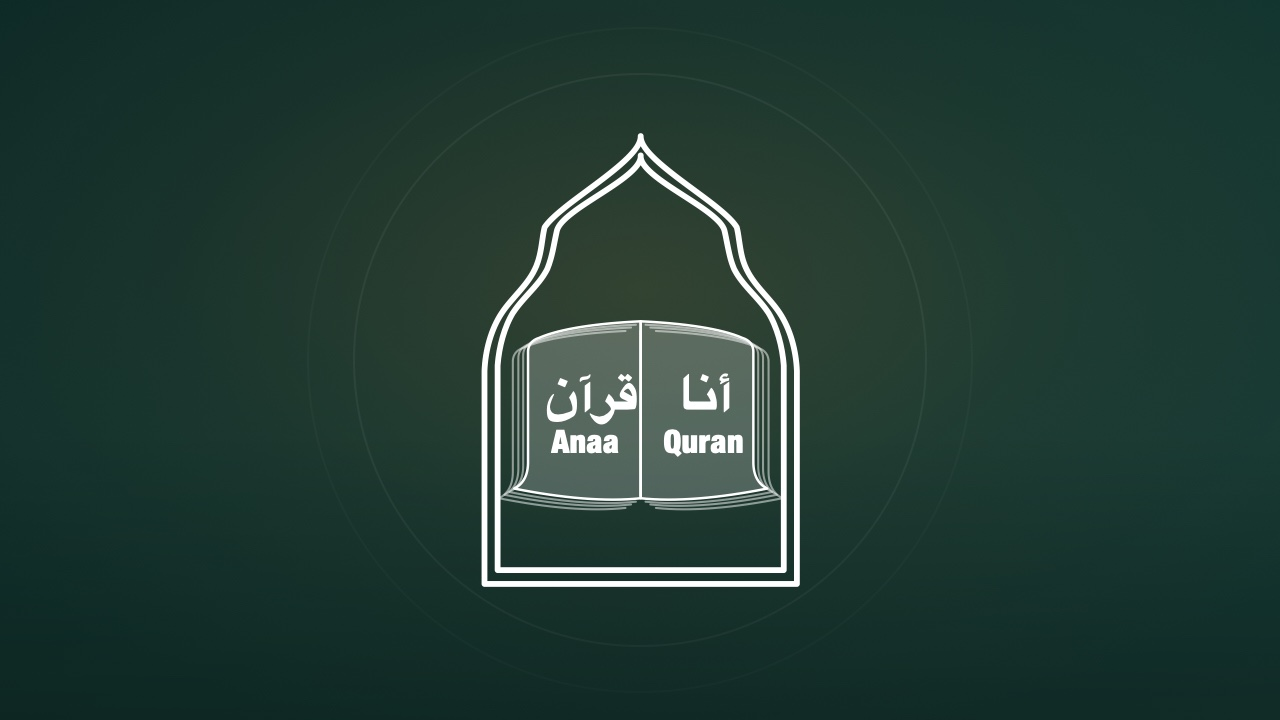
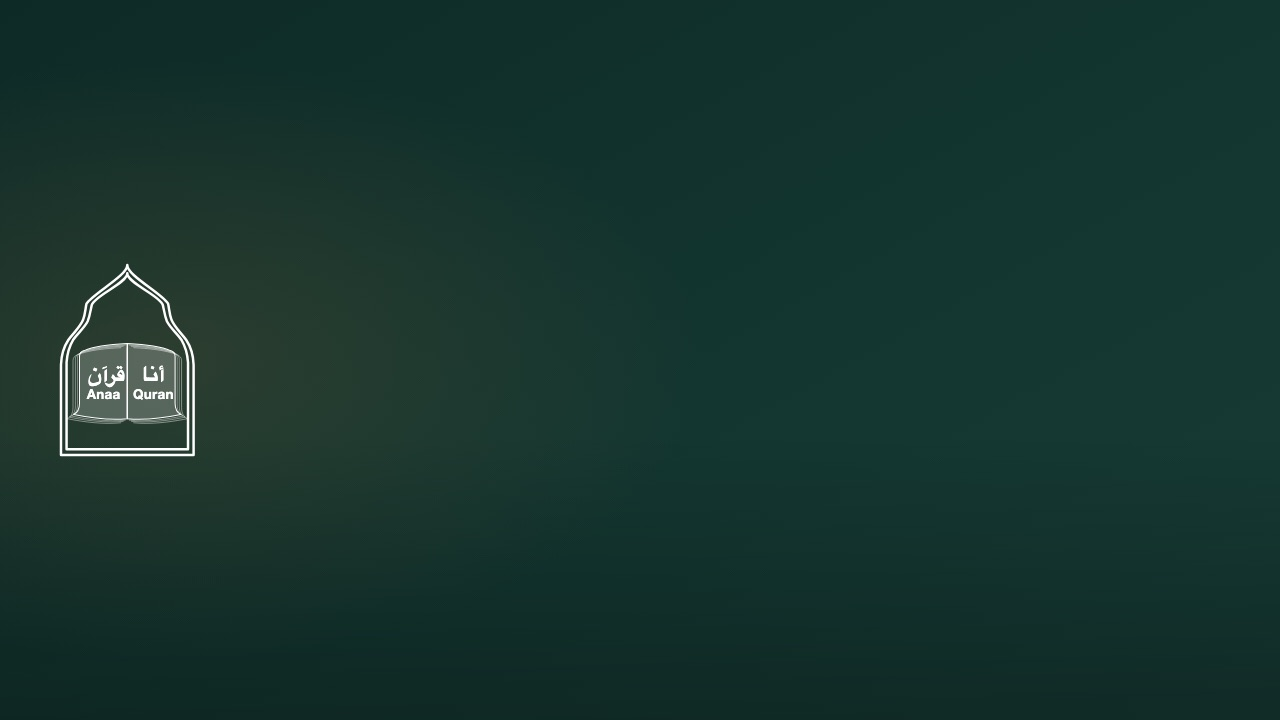
fix(branding): update lesson background SVG and JPG for improved focus and consistency

Changed region(s): [[0.375, 0.1833, 0.6562, 0.825], [0.0312, 0.3667, 0.1562, 0.6417]]

diff --git a/README.md b/README.md
@@ -16,7 +16,7 @@ Business constraints that must survive infrastructure changes:
 - A third participant (admin "Academy support") joins confirmed lessons; 1:1 calls are peer-to-peer, but 3+ participants use the JVB relay on UDP 10000.
 - **Never enable the public `/transcripts` static route.** Transcript text must go to the API (`POST /api/lessons/{id}/transcript`), not to a guessable public folder.
 - The room UI is English-only and unbranded by request; keep it that way.
-- The branded camera background is a product feature exposed through the web background picker.
+- The branded camera background is mandatory: the web room applies it through the API and hides the background picker, so nobody chooses their own. Mobile cannot apply it (the SDK only does virtual backgrounds on web) and shows the raw camera.
 
 ## What runs
 
@@ -32,8 +32,8 @@ at **`stable-11248-2`**, plus a small deployment overlay:
 | `jitsi/config/web/custom-interface_config.js` | Removes the Jitsi watermark, brand mark and "powered by" footer. |
 | `jitsi/config/web/nginx-custom/branding.conf` | Rewrites the room page's `<title>` / Open Graph tags so WhatsApp and other link previews say "Ana Quran lesson room" instead of "Jitsi Meet", and serves everything under `/branding/` from the overlay. |
 | `jitsi/config/web/branding/ana-quran.png` | Preview image referenced by `og:image`. |
-| `jitsi/config/web/branding/ana-quran-branding.json` | Dynamic branding for the room: lists the academy background under `virtualBackgrounds`, replacing Jitsi's stock images in the background picker. |
-| `jitsi/config/web/branding/ana-quran-lesson-background.jpg` | 1280×720 branded camera background (the source `.svg` sits next to it). |
+| `jitsi/config/web/branding/ana-quran-branding.json` | Dynamic branding for the room: lists the academy background under `virtualBackgrounds` and replaces Jitsi's stock images, so the forced background has something same-origin to load. |
+| `jitsi/config/web/branding/ana-quran-lesson-background.jpg` | 1280×720 branded camera background — the mark sits small on the left so the speaker stays the focus. Jitsi stretches it to the camera's own aspect ratio. Edit the `.svg` next to it, then re-render: `"/Applications/Google Chrome.app/Contents/MacOS/Google Chrome" --headless=new --hide-scrollbars --window-size=1280,720 --screenshot=/tmp/bg.png file:///tmp/wrapper.html && sips -s format jpeg -s formatOptions 82 /tmp/bg.png --out ana-quran-lesson-background.jpg` (the wrapper is a `<img>` of the SVG at 1280×720 with zero body margin). |
 
 ```
 jitsi/
